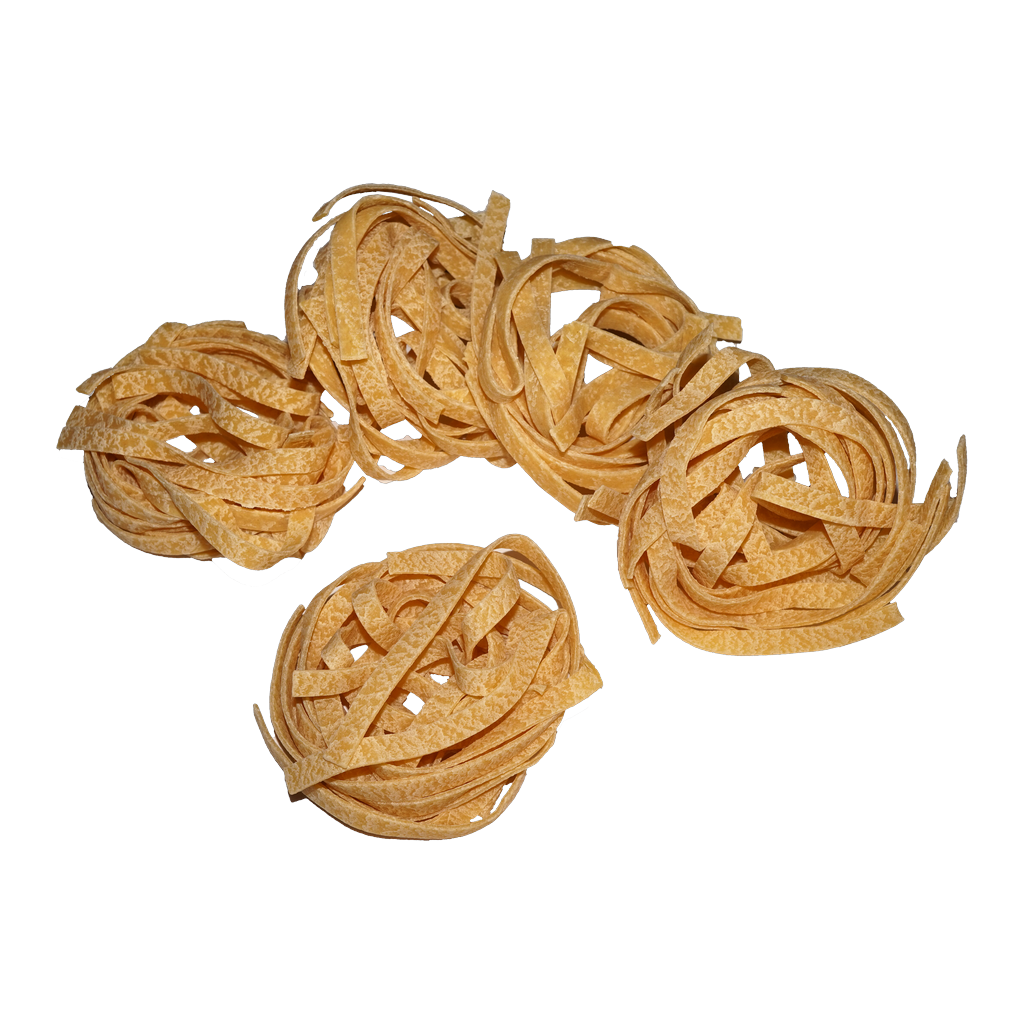
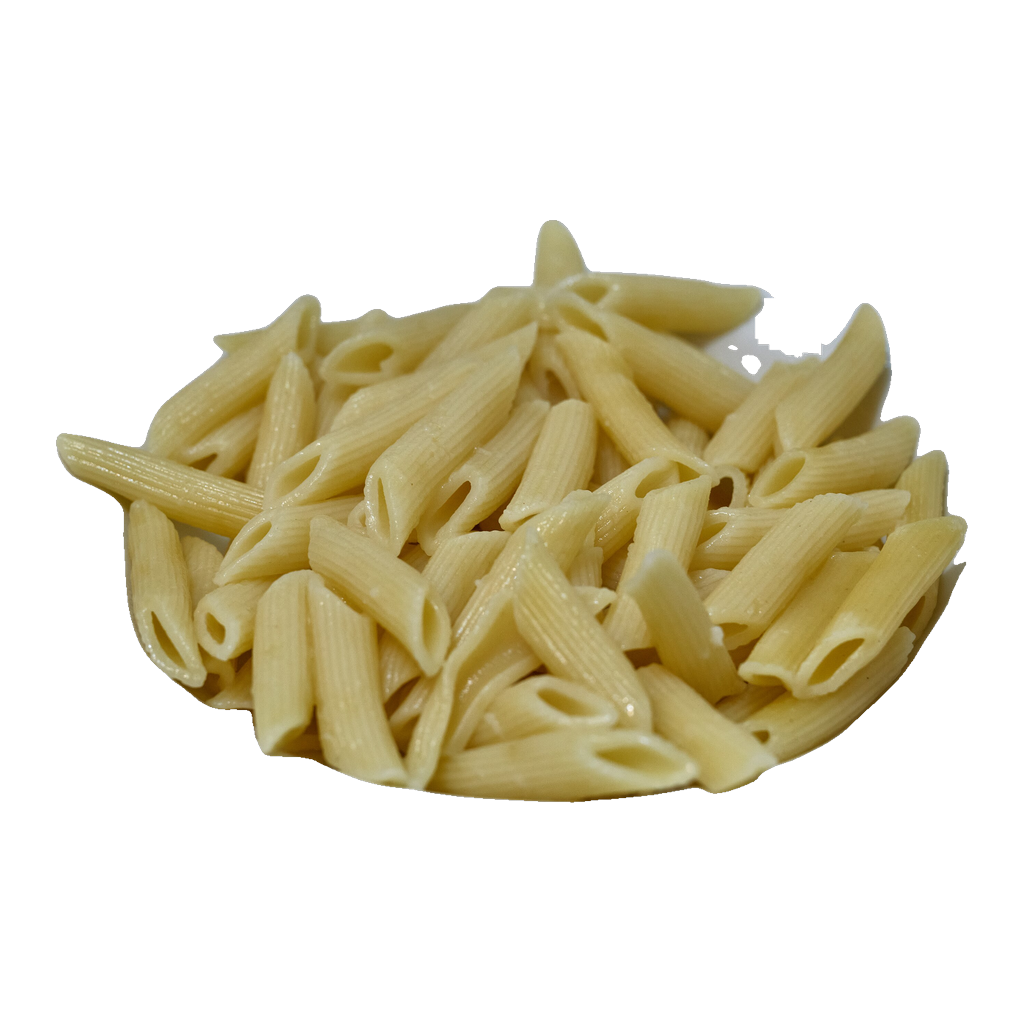
New mandarin, strawberry, watermelon (slice) and pasta photos with recorded sources; version 2.0.11 (25)

diff --git a/test/family_pages_layout_test.dart b/test/family_pages_layout_test.dart
@@ -385,9 +385,9 @@ void main() {
       state.locale = 'tr';
       await mount(tester, const Size(800, 360), 2.0, creditsScreen(state));
       final photos = flattenRealPhotoCreditEntries(photoAssets);
-      // 31 earlier verified photos, ten Food & Drinks photos and the R32
-      // single-object cucumber, mandarin and onion.
-      expect(photoAssets.length, 44);
+      // 31 earlier verified photos, ten Food & Drinks photos, the R32
+      // single-object cucumber, mandarin and onion, and the R45 watermelon.
+      expect(photoAssets.length, 45);
       // Ten animal recordings plus the round-end applause.
       expect(sounds.length, 11);
       expect(sounds.length + photos.length, greaterThanOrEqualTo(40));

diff --git a/assets/content/REAL_PHOTOS.md b/assets/content/REAL_PHOTOS.md
@@ -154,12 +154,12 @@ Adapted PNG SHA-256: `bd6126f09422d7e986a78611bb1ae14ed469c5ee2ee32658c9e5c9280b
 ## produce.strawberry
 
 File: `assets/images/produce/strawberry_real.png`
-Photo author: Paolo Neo
-Source: https://commons.wikimedia.org/wiki/File:Strawberry_fruit.jpg
-Source and adaptation license: Public domain (author dedication) — https://commons.wikimedia.org/wiki/File:Strawberry_fruit.jpg
[2 lines of base64/hex data omitted]
-Changes: Single complete photographed strawberry with calyx. Border-connected near-white background and the two locally bounded background gaps between leaves were made transparent; photographed RGB detail retained. Alpha-bound crop with 1.2% padding, aspect-preserving LANCZOS resize to 912 px maximum extent, centered 1024x1024 RGBA export and 4 px white silhouette outline. No generative editing.
+Photo author: Becks
+Source: https://commons.wikimedia.org/wiki/File:Strawberry_(3667745793).jpg
+Source and adaptation license: CC BY 2.0 ? https://creativecommons.org/licenses/by/2.0/
[2 lines of base64/hex data omitted]
+Changes: Single complete photographed red strawberry with intact green calyx. Foreground alpha generated with rembg U2Net from a downscaled segmentation input while retaining original RGB; alpha-bound crop, aspect-preserving Lanczos resize to a 912 px maximum subject extent, centered 1024x1024 RGBA export and 4 px white outer outline. No generative editing.
 
 ## produce.pomegranate
 
@@ -366,13 +366,12 @@ Attempt folder: `artifacts/food-photos-attempt-01/`. Local technical review only
 ## food.pasta
 
 File: `assets/images/food/pasta_real.png`
-Photo author: Tiia Monto
-Source: https://commons.wikimedia.org/wiki/File:Tagliatelle.png
-License: CC BY-SA 4.0 — https://creativecommons.org/licenses/by-sa/4.0
-Changes: Existing transparent cutout from Wikimedia Commons retained (no new mask); alpha-bound crop, aspect-preserving Lanczos resize to a 912 px maximum subject extent, centered 1024x1024 RGBA export and 4 px white outer outline.
[2 lines of base64/hex data omitted]
-Attempt folder: `artifacts/food-photos-attempt-02/`. Local technical review only; final human approval pending.
+Photo author: Leonhard Lenz
+Source: https://commons.wikimedia.org/wiki/File:Penne_on_plate_2025-02-12_02.jpg
+Source and adaptation license: CC0 1.0 ? https://creativecommons.org/publicdomain/zero/1.0/
[2 lines of base64/hex data omitted]
+Changes: Photographed heap of penne retained as a single subject. Foreground alpha generated with rembg U2Net from a downscaled segmentation input while retaining original RGB; neutral plate pixels in a small interior gap were masked manually. Alpha-bound crop, aspect-preserving Lanczos resize to a 912 px maximum subject extent, centered 1024x1024 RGBA export and 4 px white outer outline. No generative editing.
 
 ## food.pizza
 
@@ -422,13 +421,23 @@ Attempt folder: `artifacts/produce-photos-attempt-r32-01/`. Local technical revi
 ## produce.mandarin
 
 File: `assets/images/produce/mandarin_real.png`
-Photo author: Filo gèn'
-Source: https://commons.wikimedia.org/wiki/File:Citrus_reticulata_fruit_on_white_background.jpg
-License: CC BY-SA 4.0 — https://creativecommons.org/licenses/by-sa/4.0
-Changes: Background removed with classical OpenCV GrabCut (rectangle start, largest component, 1 px feather), original photo pixels kept; alpha-bound crop, aspect-preserving Lanczos resize to a 912 px maximum subject extent, centered 1024x1024 RGBA export and 4 px white outer outline.
[2 lines of base64/hex data omitted]
-Attempt folder: `artifacts/produce-photos-attempt-r32-01/`. Local technical review only; final human approval pending.
+Photo author: Petr Kratochvil
+Source: https://commons.wikimedia.org/wiki/File:Clementine_orange.jpg
+Source and adaptation license: CC0 1.0 ? https://creativecommons.org/publicdomain/zero/1.0/
[2 lines of base64/hex data omitted]
+Changes: Single complete clementine with attached leaves. Foreground alpha generated with rembg U2Net from a downscaled 1800 px segmentation input while retaining original RGB; alpha-bound crop and aspect-preserving Lanczos resize to a 912 px maximum subject extent, centered 1024x1024 RGBA export and 4 px white outer outline. No generative editing.
+
+## produce.watermelon
+
+File: `assets/images/produce/watermelon_1.png`
+Photo author: Stephen Audu
+Source: https://www.pexels.com/photo/slice-of-a-watermelon-6604314/
+Source and adaptation license: Pexels License ? https://www.pexels.com/license/
[2 lines of base64/hex data omitted]
+Changes: Single complete classic watermelon wedge with red flesh, dark seeds and green rind. Foreground alpha generated with rembg U2Net from a downscaled segmentation input while retaining original RGB; alpha-bound crop, aspect-preserving Lanczos resize to a 912 px maximum subject extent, centered 1024x1024 RGBA export and 4 px white outer outline. No generative editing.
+
 
 ## produce.onion
 

diff --git a/DEVELOPMENT_STATUS.md b/DEVELOPMENT_STATUS.md
@@ -1191,3 +1191,6 @@ Son kullanım kontrolü: beş saatlik kalan %6, haftalık %85. Beş saatlik eşi
 - Independent validation: old backups match baseline for all five targets; orange has transparent corners and complete reviewed subject; re-adaptation reproduces its SHA-256 exactly; catalog behavior unchanged; manifest and bounds semantic changes limited to orange. Evidence: `artifacts/photo-replacements-r44/independent-validation.json`.
 - Remaining: mandarin and strawberry unchanged (candidate quality/occlusion/distinction issues; further Commons retrieval rate-limited). Watermelon and pasta unchanged because attempted masks retained background or lost subject edges. Existing watermelon remains a legacy 256x256 image. This does not complete the requested five replacements.
 - Sources, downloaded originals, masks, rejected numbered attempts, backups and read-only summary are preserved under `artifacts/photo-replacements-r44/`; see `SUMMARY.md` and additive `SUMMARY-CORRECTIONS.md`. No Flutter builds/tests were needed or run. Unrelated concurrently changing source files were preserved; this task made no Dart/test/l10n/pubspec/Android changes.
+
+## 22 October 2026 - R45 map illustration
+- Generated map_background with the built-in ChatGPT image tool using the user's supplied SEG soft clay prompt. Saved 1536x1024 PNG to assets/illustrations/path/map_background.png and byte-identical raw original to artifacts/illustrations-r45/map_background_original.png. Opened saved image: landscape, no text, broad clear center meadow; no second generation needed. SHA-256 5c3c9810b0d873e56b8d278f7fbd9f83de1f638b7e1bb5053978700cf870fb13. Recorded prompt/provenance in illustration manifest. App integration and device review remain outside this asset-only task.
